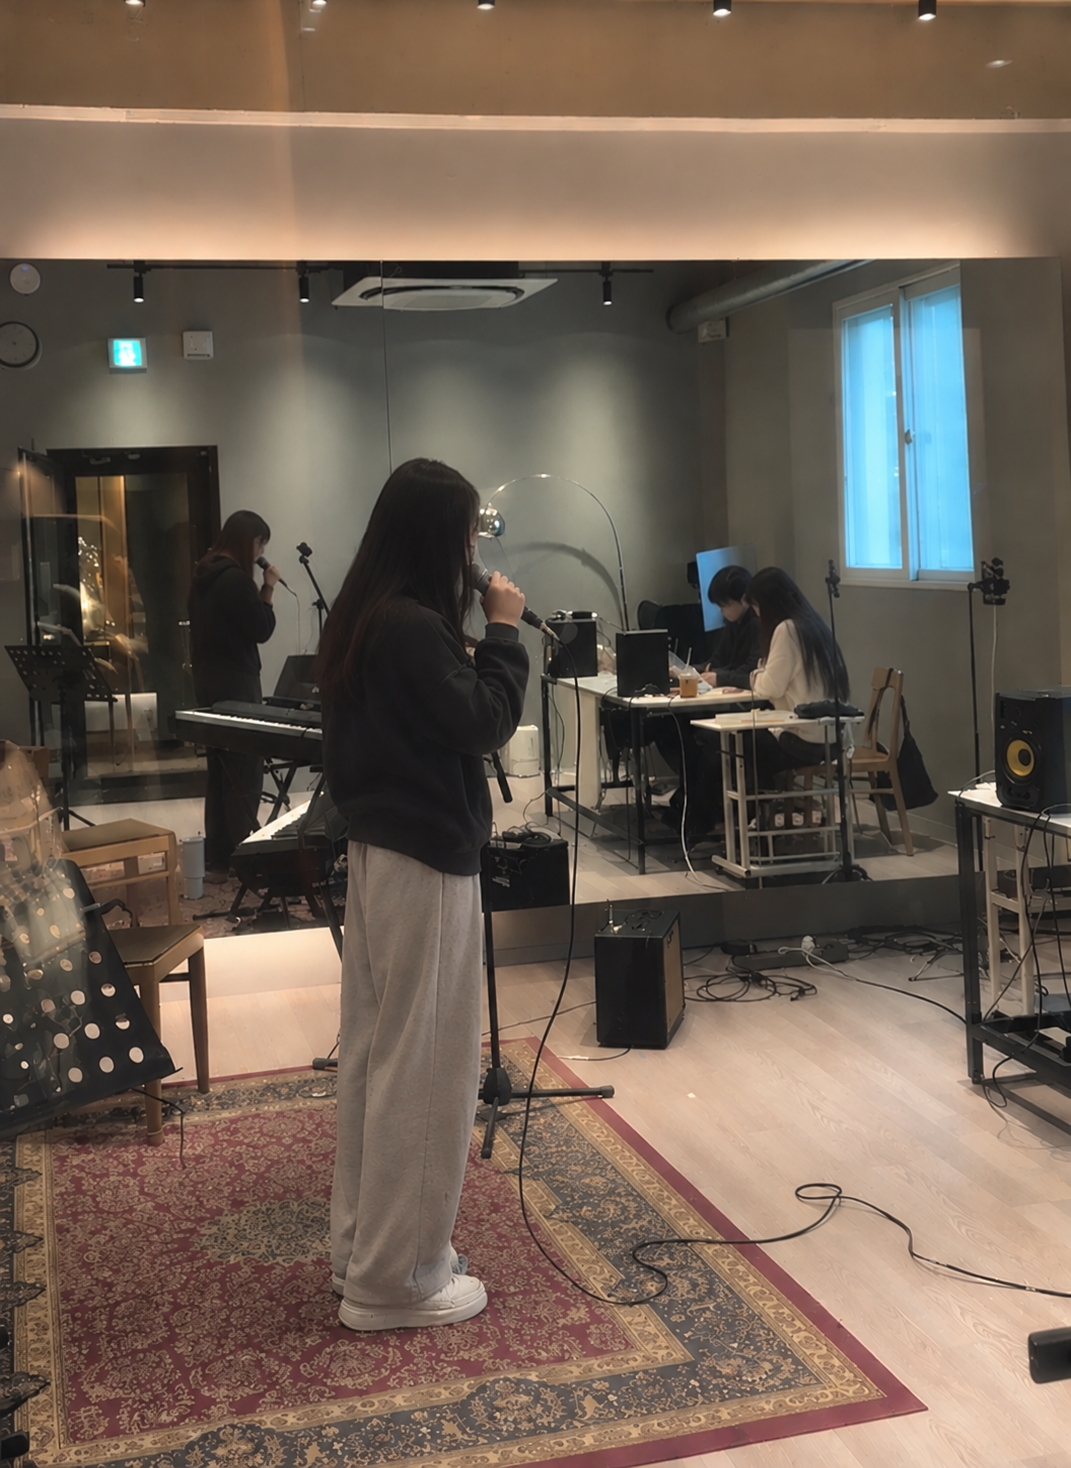
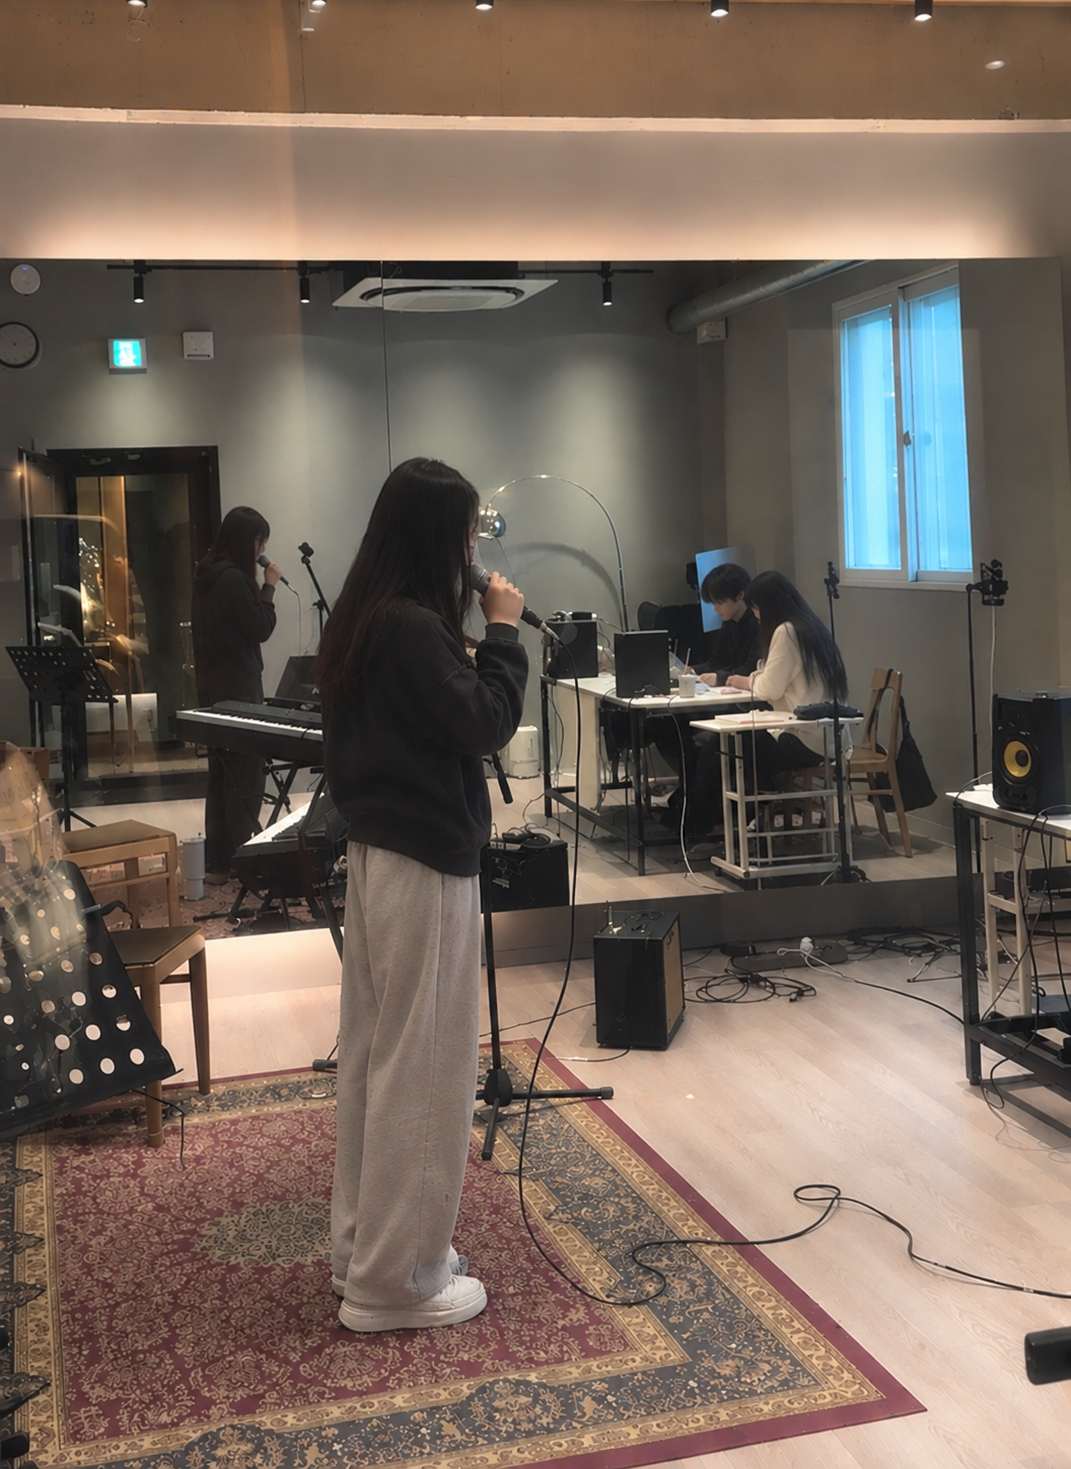
완전한 연주 편: 최종 모의고사 사진(게시 동의 완료), 캡션 첫 문단에 모의고사
Claude-Session: https://claude.ai/code/session_01HGbZvgMeYrbU7mY8bwfjyb

diff --git a/output/책_완전한연주_1단계/caption.md b/output/책_완전한연주_1단계/caption.md
@@ -3,6 +3,8 @@
 ## 본문
 시험장에서 떨릴 때, 해 볼 3가지.
 
+ENOCH은 시험장에서도 연습한 만큼 연주할 수 있도록, 주기적으로 모의고사를 진행합니다. 1장 사진도 그 모의고사 날의 모습이에요.
+
 떨리는 건 잘하고 싶어서입니다. '잘해야 한다'는 마음이 클수록 어깨와 손에 힘이 들어가거든요. 마음은 마음대로 안 되지만, 몸은 풀 수 있어요. 대기실에서, 이름 불리기 전 2분.
 
 1. 길게 내쉬기 — 들이쉰 것보다 더 길게.
@@ -12,14 +14,14 @@
 
 이 방법들은 재즈 피아니스트 케니 워너의 책 『완전한 연주』 4장 '단계적 연습'의 1단계에서 가져왔습니다.
 
-ENOCH 입시 과정은 모두 1:1입니다. 시험장에서도 연습한 만큼 연주할 수 있도록, 주기적으로 모의고사를 진행합니다.
+같은 곡도, 사람마다 다르게 가르칩니다. ENOCH 입시 과정은 모두 1:1.
 
 에녹실용음악학원 시흥점
 경기도 시흥시 은행로 157 2층 · 010 3949 3666
 
 인용 출처: 케니 워너, 『완전한 연주』, 이혜주 옮김, 현익출판.
 
-#시험긴장 #무대공포증 #연주불안 #실기시험 #입시보컬 #실용음악입시 #완전한연주 #케니워너 #시흥실용음악학원 #에녹실용음악학원
+#시험긴장 #무대공포증 #연주불안 #실기시험 #입시보컬 #실용음악입시 #모의고사 #완전한연주 #케니워너 #시흥실용음악학원 #에녹실용음악학원
 
 ## 대체 텍스트
 1. ENOCH 입시 모의고사 사진: 마이크를 든 수강생 뒷모습과 거울 너머 심사석. "시험장에서 떨릴 때, 해 볼 3가지".

diff --git a/output/책_완전한연주_1단계/review.md b/output/책_완전한연주_1단계/review.md
@@ -8,5 +8,5 @@
 - 구성 변경(원장님 2026-10-13): 책 소개는 6장으로 옮기고, 1장은 시험장 떨림 훅으로. 머리말 ENOCH NOTE — STAGE FRIGHT.
 - 2026-10-13: 1장을 '시험장에서 떨릴 때, 해 볼 3가지'로, 2–5장을 팁 3개 구조로 재편(원장님 요청).
 - 2026-10-13: 4장에 악기별 한 줄 추가(원장님 요청). 피아노·보컬은 책 요약, 기타·베이스·드럼은 책에 없는 내용을 같은 결로 ENOCH이 씀 — 카드 하단에 구분 표기. 모두 상식 선.
-- 2026-10-13: 1장에 ENOCH 입시 모의고사 사진(`images/학생/모의고사_01.png`, 원장님 제공) 적용. 수강생 뒷모습·심사 강사 측면이라 얼굴은 또렷하지 않음 — 게시 동의는 원장님 확인 필요.
+- 2026-10-13: 1장에 ENOCH 입시 모의고사 사진(`images/학생/모의고사_01.png`, 원장님 제공) 적용. 수강생 뒷모습·심사 강사 측면이라 얼굴은 또렷하지 않음 — 게시 동의 완료(원장님 확인 2026-10-13), 사진은 같은 날 받은 최종본으로 교체.
 - 같은 날 받은 해외 스튜디오 사진 2장(원본 + 얼굴 합성본)은 실제 ENOCH 사진이 아니라고 판단해 쓰지 않음.
